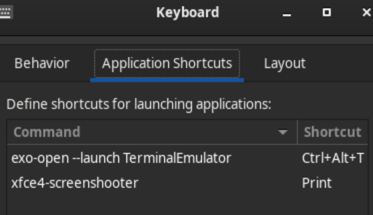
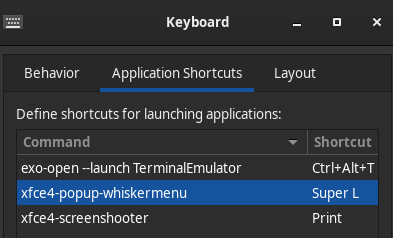
keyboard

diff --git a/setup_manjaro/README.md b/setup_manjaro/README.md
@@ -5,7 +5,8 @@
 - Window Manager  
 ![img.png](window_manager.png)
 ![img.png](windows_manager_2.png)
-- Keyboard
+- Keyboard  
+xfce4-popup-whiskermenu [Win Key]  
 ![img.png](keyboard1.png)
 ![img.png](keyboard2.png)
 - Panel  
